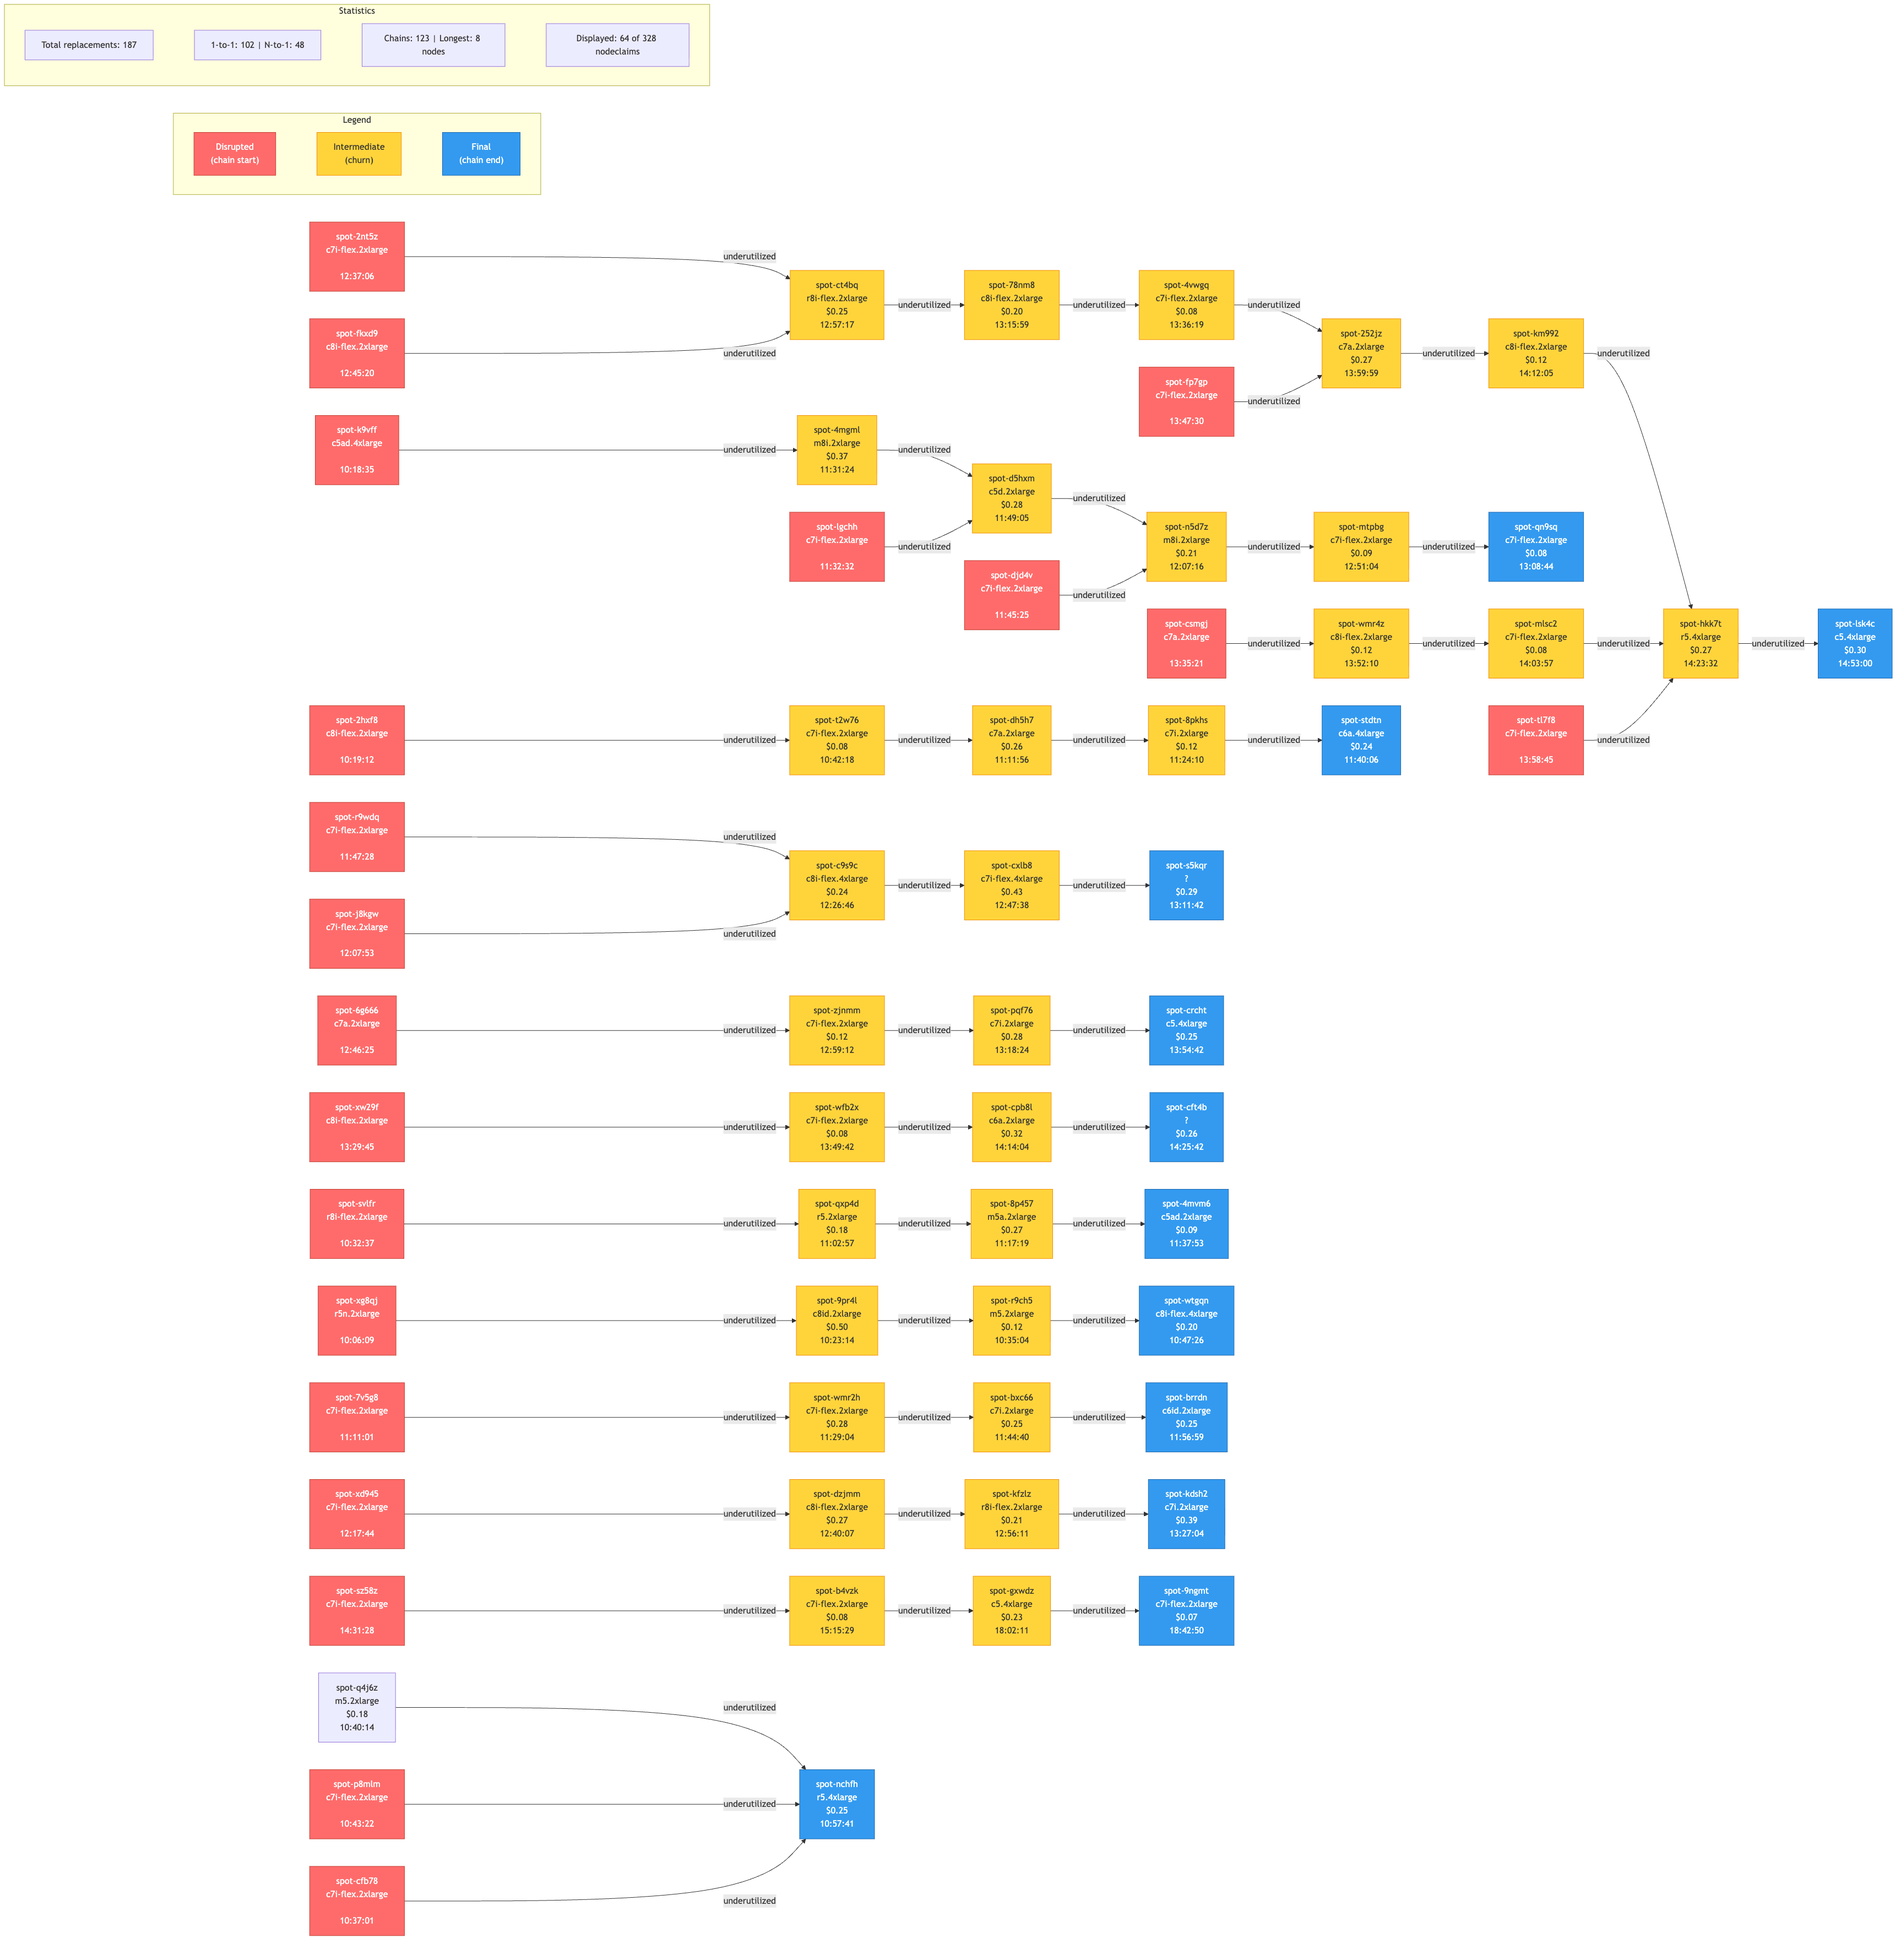
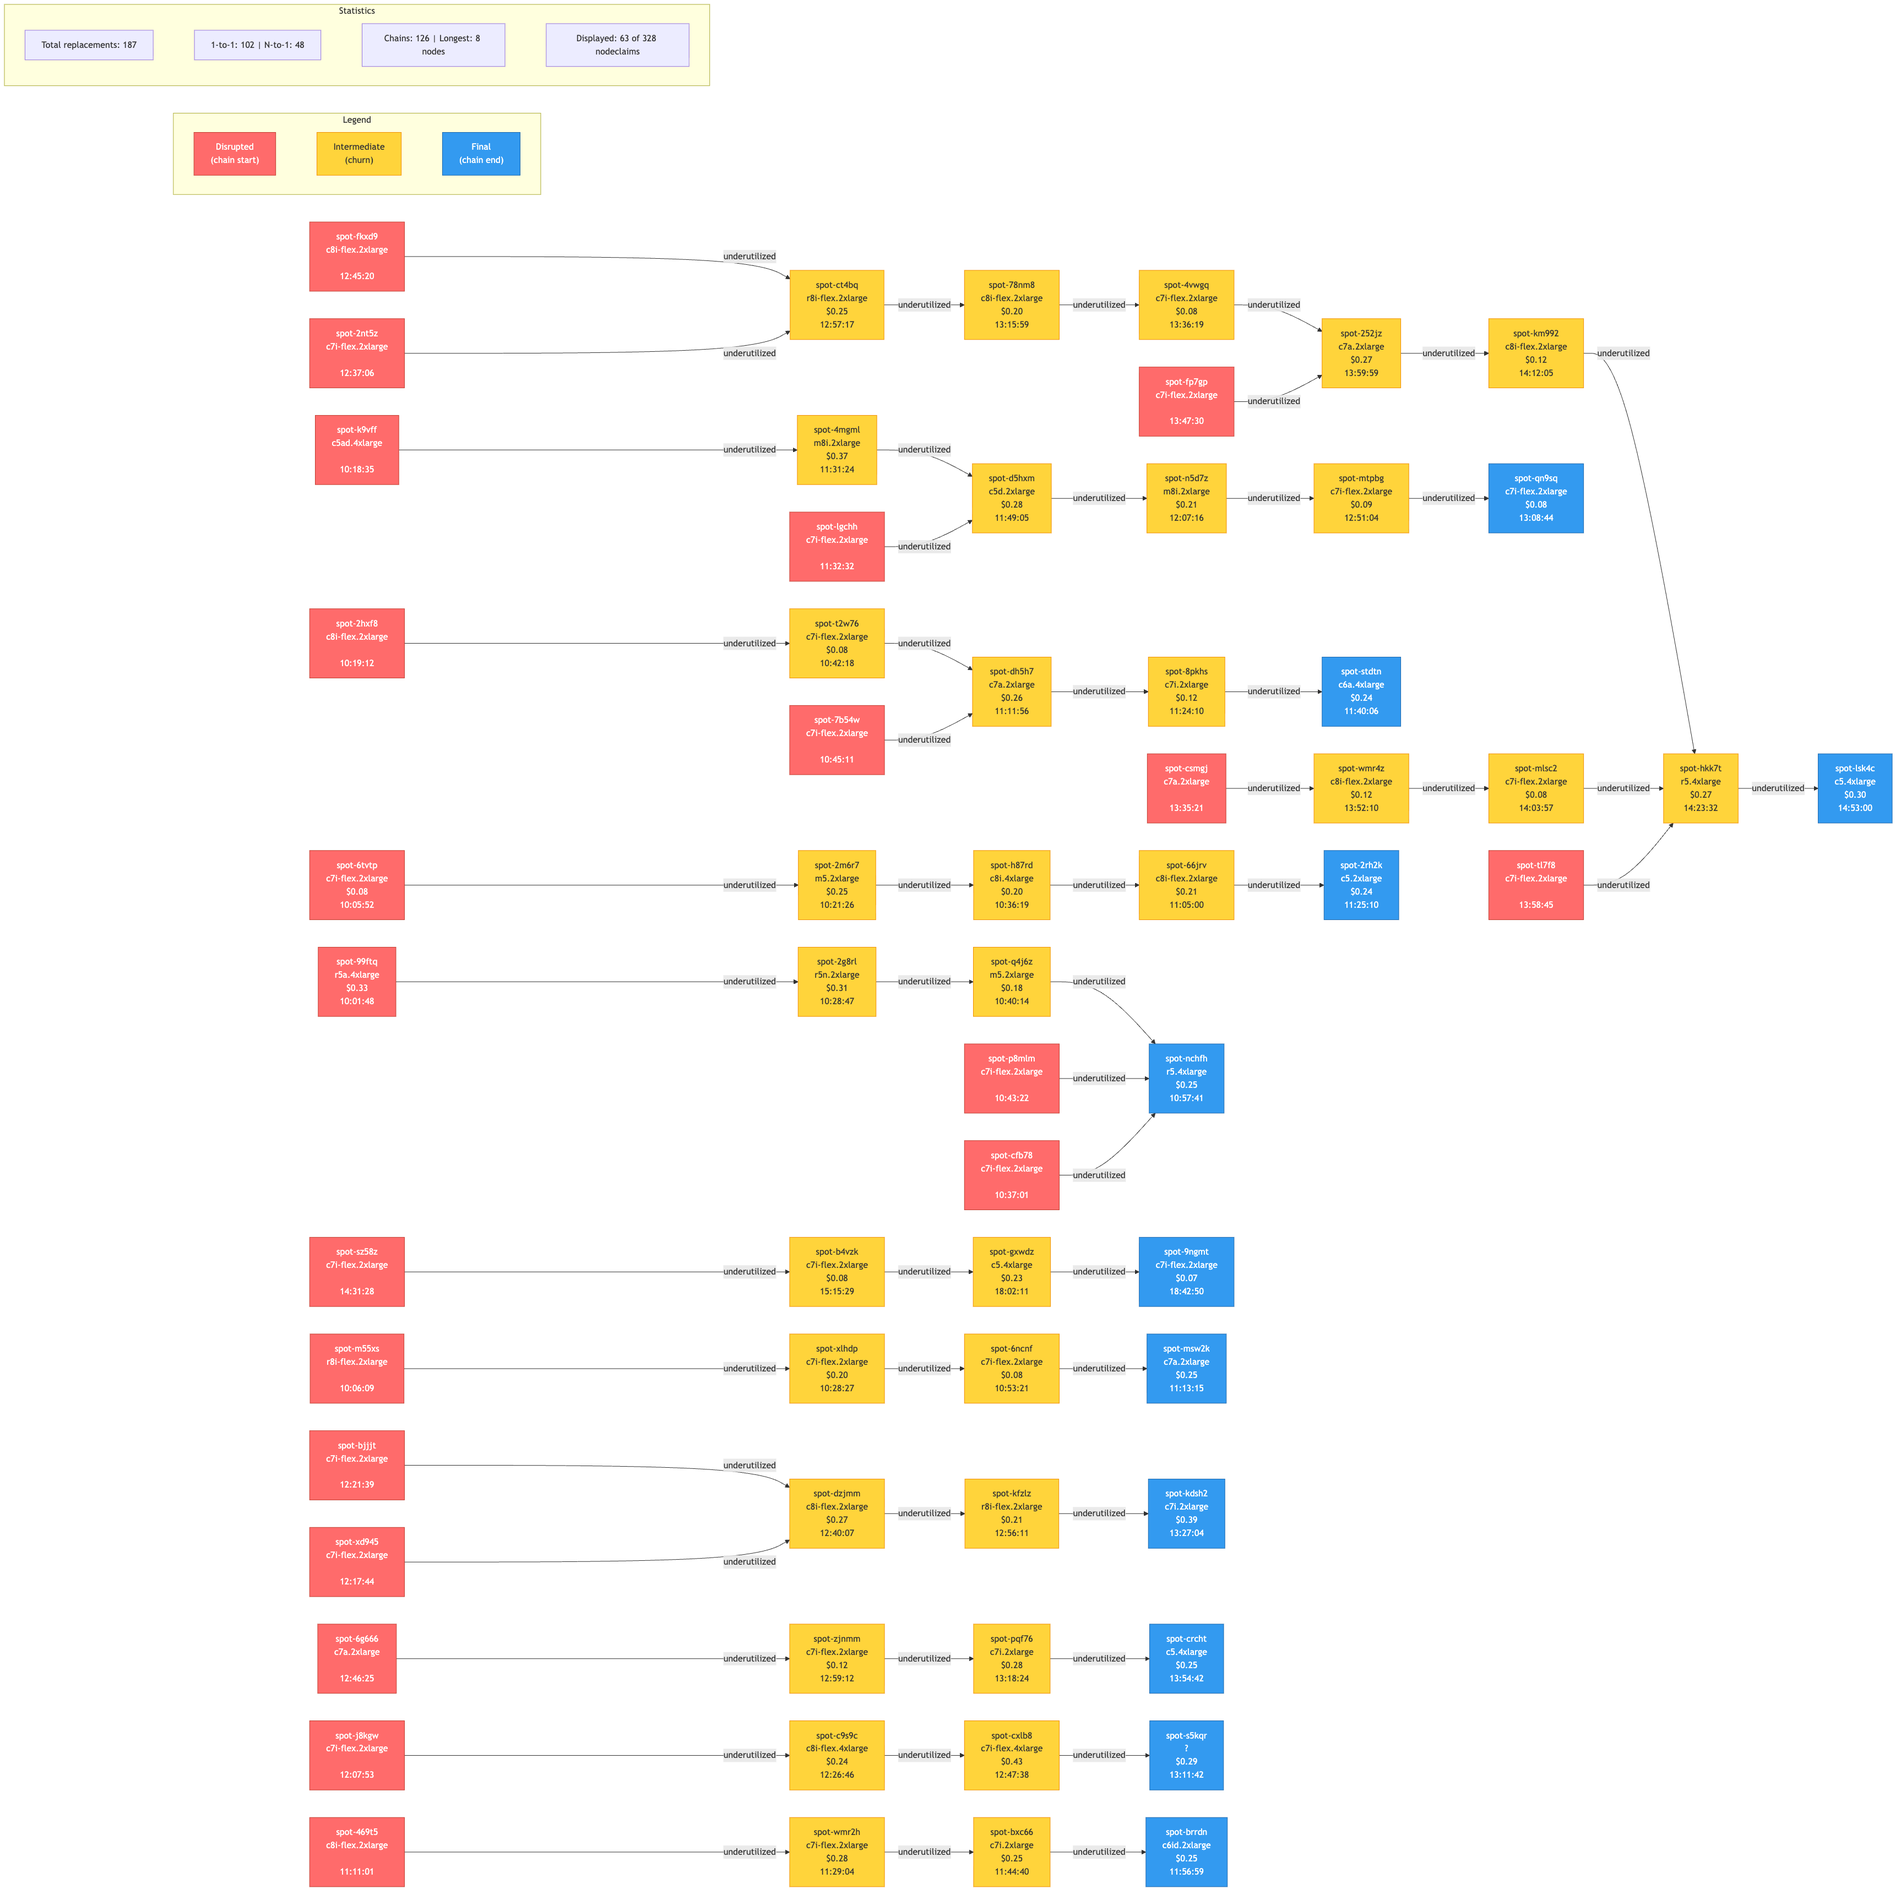
fix: correct chain-start detection for nodes with out-of-window sources
Nodes that replace sources not present in the CSV (created before the
log window) were incorrectly excluded from chain starts. Now only
nodes reachable via another node's Replacedby link are removed from
starts.

Also add README note clarifying that lp4kchain only displays nodes
participating in replacement relationships.

diff --git a/tools/lp4kchain/main.go b/tools/lp4kchain/main.go
@@ -133,13 +133,20 @@ func main() {
 		}
 	}
 
-	// Find chain starts (disrupted but not themselves a replacement)
+	// Find chain starts (disrupted but not themselves a replacement that's reachable)
+	// A node is reachable if another node's Replacedby points to it
+	reachable := make(map[string]bool)
+	for _, target := range chains {
+		reachable[target] = true
+	}
 	starts := make(map[string]bool)
 	for nc := range chains {
 		starts[nc] = true
 	}
 	for nc := range replacesMap {
-		delete(starts, nc)
+		if reachable[nc] {
+			delete(starts, nc)
+		}
 	}
 
 	// Build full chains from starts

diff --git a/README.md b/README.md
@@ -254,6 +254,8 @@ The diagram shows:
 - **Node box** — nodeclaim name, instance type, savings (hourly, on replacement nodes only), creation time
 - **Edge label** — disruption reason (e.g., "underutilized", "spot_interrupted")
 
+Only nodeclaims that participate in at least one replacement relationship are shown. Standalone nodes (never consolidated and never a replacement) are excluded since they have no chain edges to display.
+
 A legend and statistics table are included in the diagram showing total replacements, 1-to-1 vs N-to-1 counts, and how many nodeclaims are displayed out of the total.
 
 See [doc/lp4kchain-install.md](doc/lp4kchain-install.md) for mmdc installation instructions.
